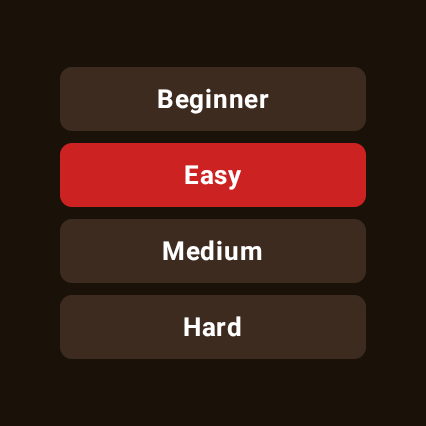
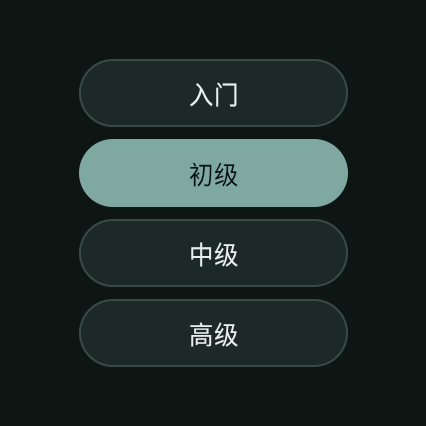
Give every button one look, in celadon
Three screens had grown three button styles: 38dp tall on the difficulty
screen, 34 in the in-game menu, 30 for the help card's dismiss; mostly
dark brown but Resume was grey and Black was near-black. Now there is a
single WatchButton and the sizes, corners, border and type live in one
place.

Red and Black no longer wear red and black. They were the only buttons
whose colour carried meaning, which made them read as a different kind
of control than the rest, and the colour said nothing the label wasn't
already saying.

The buttons were also full width, and the screen is round, so the ones
nearest the top and bottom had their corners cut off by the bezel -
visible on Resume at the foot of the in-game menu. They are now 76% of
the width with fully rounded ends, which keeps them inside the circle
wherever they land.

Palette is deep ink-teal with celadon for the selected item, picked to
sit with the wooden board rather than against it. Store screenshots
retaken against the new look.

Claude-Session: https://claude.ai/code/session_01Q1RLruG5yjBkp6saSZZABh

diff --git a/app/src/main/java/com/yingwang/watchchess/ui/GameScreen.kt b/app/src/main/java/com/yingwang/watchchess/ui/GameScreen.kt
@@ -12,6 +12,7 @@ import android.os.VibratorManager
 import androidx.activity.compose.BackHandler
 import androidx.compose.foundation.Canvas
 import androidx.compose.foundation.background
+import androidx.compose.foundation.border
 import androidx.compose.foundation.clickable
 import androidx.compose.foundation.focusable
 import androidx.compose.foundation.gestures.detectTapGestures
@@ -89,6 +90,25 @@ private val LegalDot = Color(0x8800CC44)
 private val OpponentMoveColor = Color(0xFF1B6BFF)
 private val OwnMoveColor = Color(0xFF17A34A)
 private val CursorRing = Color(0xFF00FF66)
+
+// 菜单一套青瓷色。殿下 2026-09-20 选的方向：底色是很深的墨青，按钮同色系里稍亮一档，
+// 描一道极细的浅线，当前选中的那一个填汝窑那种偏灰的蓝绿。
+// 红方黑方不再各配红黑两色，她说了「不用特意用红色黑色，都按钮就是同一」，所以整套
+// 界面里按钮只有两副长相：寻常的和选中的。棋盘本身不动，木色照旧。
+private val MenuBg = Color(0xFF0E1614)
+private val BtnFill = Color(0xFF1C2926)
+private val BtnEdge = Color(0x33A9CFC8)
+private val BtnText = Color(0xFFE8EFED)
+private val BtnTextOff = Color(0xFF5B6B68)
+private val Celadon = Color(0xFF7FA8A0)
+private val CeladonText = Color(0xFF0B1211)
+private val MenuHeading = Color(0xFF9CC3BB)
+
+// 按钮占屏宽的比例。表是圆的，越往上下两端可用的宽度越窄，通栏的按钮排到最下面
+// 左右两角就被圆边切掉，殿下 2026-09-20 看见的正是这个。收到这个比例再配上药丸形的
+// 圆角，最下面那一个也进得来。
+private const val BTN_WIDTH = 0.76f
+private val BTN_HEIGHT = 34.dp
 
 // 表冠：累计到这个像素量算走一格。数值越大越钝，转同样的角度走的格子越少。
 // 2026-09-20 殿下试了两轮都说偏快，先从 45 调到 68，仍嫌敏感，再调到 105。
@@ -532,11 +552,11 @@ fun GameScreen() {
 private fun MainMenu(onPick: (Int) -> Unit, selectedIdx: Int) {
     MenuScaffold {
         DIFFICULTIES.forEachIndexed { idx, diff ->
-            MenuChoice(
+            WatchButton(
                 label = stringResource(diff.nameRes),
-                highlighted = idx == selectedIdx,
-                accent = Color(0xFFCC2222),
-            ) { onPick(idx) }
+                selected = idx == selectedIdx,
+                onClick = { onPick(idx) },
+            )
         }
     }
 }
@@ -546,16 +566,8 @@ private fun MainMenu(onPick: (Int) -> Unit, selectedIdx: Int) {
 private fun SideMenu(onPick: (PieceColor) -> Unit, onBack: () -> Unit) {
     BackHandler(enabled = true) { onBack() }
     MenuScaffold {
-        MenuChoice(
-            label = stringResource(R.string.side_red),
-            highlighted = true,
-            accent = Color(0xFFCC2222),
-        ) { onPick(PieceColor.RED) }
-        MenuChoice(
-            label = stringResource(R.string.side_black),
-            highlighted = true,
-            accent = Color(0xFF2E2E2E),
-        ) { onPick(PieceColor.BLACK) }
+        WatchButton(stringResource(R.string.side_red), onClick = { onPick(PieceColor.RED) })
+        WatchButton(stringResource(R.string.side_black), onClick = { onPick(PieceColor.BLACK) })
     }
 }
 
@@ -568,11 +580,12 @@ private fun MenuScaffold(content: @Composable ColumnScope.() -> Unit) {
     LaunchedEffect(Unit) { focus.requestFocus() }
 
     Box(
-        Modifier.fillMaxSize().background(Color(0xFF1A1208)),
+        Modifier.fillMaxSize().background(MenuBg),
         contentAlignment = Alignment.Center,
     ) {
         Column(
             horizontalAlignment = Alignment.CenterHorizontally,
+            verticalArrangement = Arrangement.spacedBy(6.dp),
             modifier = Modifier
                 .onRotaryScrollEvent {
                     scope.launch { scrollState.scrollBy(it.verticalScrollPixels) }
@@ -581,27 +594,52 @@ private fun MenuScaffold(content: @Composable ColumnScope.() -> Unit) {
                 .focusRequester(focus)
                 .focusable()
                 .verticalScroll(scrollState)
-                .padding(horizontal = 30.dp, vertical = 14.dp),
+                .padding(horizontal = 18.dp, vertical = 14.dp),
             content = content,
         )
     }
 }
 
+/**
+ * 全应用唯一的按钮。
+ *
+ * 之前三处各写各的：难度那一屏高 38，对局菜单里高 34，帮助里的「知道了」高 30；颜色上
+ * 多数是深褐，「继续」却是灰的，执黑那一项又近乎纯黑。殿下 2026-09-20 说「所有按钮风格
+ * 好像不是特别的统一」，指的就是这个。现在只留这一个函数，尺寸圆角描边字号都在这里，
+ * 想改一处就改这里，不会再各走各的。
+ *
+ * selected 为真时填青瓷色，用来标当前选中的那一项，别的语义一概不用这个颜色。
+ */
 @Composable
-private fun MenuChoice(
+private fun WatchButton(
     label: String,
-    highlighted: Boolean,
-    accent: Color,
     onClick: () -> Unit,
+    enabled: Boolean = true,
+    selected: Boolean = false,
 ) {
     Button(
         onClick = onClick,
-        modifier = Modifier.fillMaxWidth().height(38.dp).padding(vertical = 3.dp),
+        enabled = enabled,
+        modifier = Modifier
+            .fillMaxWidth(BTN_WIDTH)
+            .height(BTN_HEIGHT)
+            .border(1.dp, if (selected) Color.Transparent else BtnEdge, RoundedCornerShape(50)),
         colors = ButtonDefaults.buttonColors(
-            backgroundColor = if (highlighted) accent else Color(0xFF3D2B1F),
+            backgroundColor = if (selected) Celadon else BtnFill,
+            disabledBackgroundColor = BtnFill,
         ),
-        shape = RoundedCornerShape(6.dp),
-    ) { Text(label, color = Color.White, fontSize = 14.sp) }
+        shape = RoundedCornerShape(50),
+    ) {
+        Text(
+            label,
+            color = when {
+                !enabled -> BtnTextOff
+                selected -> CeladonText
+                else -> BtnText
+            },
+            fontSize = 13.sp,
+        )
+    }
 }
 
 // ── In-Game Menu Overlay ───────────────────────────────────────────────────
@@ -631,12 +669,12 @@ private fun InGameMenu(
     LaunchedEffect(Unit) { menuFocus.requestFocus() }
 
     Box(
-        Modifier.fillMaxSize().background(Color(0xCC000000)).clickable { onDismiss() },
+        Modifier.fillMaxSize().background(Color(0xF0000000)).clickable { onDismiss() },
         contentAlignment = Alignment.Center,
     ) {
         Column(
             horizontalAlignment = Alignment.CenterHorizontally,
-            verticalArrangement = Arrangement.spacedBy(5.dp),
+            verticalArrangement = Arrangement.spacedBy(6.dp),
             modifier = Modifier
                 .onRotaryScrollEvent {
                     scope.launch { scrollState.scrollBy(it.verticalScrollPixels) }
@@ -645,25 +683,19 @@ private fun InGameMenu(
                 .focusRequester(menuFocus)
                 .focusable()
                 .verticalScroll(scrollState)
-                .padding(horizontal = 40.dp, vertical = 16.dp),
+                .padding(horizontal = 18.dp, vertical = 16.dp),
         ) {
             val min = elapsedSec / 60; val sec = elapsedSec % 60
-            Text(diffName, color = Color(0xFFD4A960), fontSize = 13.sp)
+            Text(diffName, color = MenuHeading, fontSize = 13.sp)
             Text(stringResource(R.string.clock_moves, min, sec, moveCount + 1), color = Color(0xAAFFFFFF), fontSize = 11.sp)
-            Spacer(Modifier.height(4.dp))
+            Spacer(Modifier.height(2.dp))
 
-            MenuBtn(stringResource(R.string.menu_undo), canUndo, onUndo)
-            MenuBtn(stringResource(R.string.menu_music, stringResource(if (bgmOn) R.string.state_on else R.string.state_off)), true, onToggleBgm)
-            MenuBtn(stringResource(R.string.menu_sound, stringResource(if (sfxOn) R.string.state_on else R.string.state_off)), true, onToggleSfx)
-            MenuBtn(stringResource(R.string.menu_new_game), true, onNewGame)
-            MenuBtn(stringResource(R.string.menu_help), true, onHelp)
-
-            Button(
-                onClick = onDismiss,
-                modifier = Modifier.fillMaxWidth().height(34.dp),
-                colors = ButtonDefaults.buttonColors(backgroundColor = Color(0xFF555555)),
-                shape = RoundedCornerShape(6.dp),
-            ) { Text(stringResource(R.string.menu_resume), color = Color.White, fontSize = 13.sp) }
+            WatchButton(stringResource(R.string.menu_undo), onUndo, enabled = canUndo)
+            WatchButton(stringResource(R.string.menu_music, stringResource(if (bgmOn) R.string.state_on else R.string.state_off)), onToggleBgm)
+            WatchButton(stringResource(R.string.menu_sound, stringResource(if (sfxOn) R.string.state_on else R.string.state_off)), onToggleSfx)
+            WatchButton(stringResource(R.string.menu_new_game), onNewGame)
+            WatchButton(stringResource(R.string.menu_help), onHelp)
+            WatchButton(stringResource(R.string.menu_resume), onDismiss)
         }
     }
 }
@@ -700,9 +732,9 @@ private fun HelpOverlay(onDismiss: () -> Unit) {
                 .focusRequester(focus)
                 .focusable()
                 .verticalScroll(scrollState)
-                .padding(horizontal = 22.dp, vertical = 8.dp),
+                .padding(horizontal = 18.dp, vertical = 8.dp),
         ) {
-            Text(stringResource(R.string.help_title), color = Color(0xFFD4A960), fontSize = 13.sp)
+            Text(stringResource(R.string.help_title), color = MenuHeading, fontSize = 13.sp)
             Spacer(Modifier.height(1.dp))
             HelpLine(stringResource(R.string.help_step1))
             HelpLine(stringResource(R.string.help_step2))
@@ -712,12 +744,7 @@ private fun HelpOverlay(onDismiss: () -> Unit) {
             HelpLine(stringResource(R.string.help_cancel), Color(0x99FFFFFF), 11.sp)
             HelpLine(stringResource(R.string.help_menu), Color(0x99FFFFFF), 11.sp)
             Spacer(Modifier.height(3.dp))
-            Button(
-                onClick = onDismiss,
-                modifier = Modifier.fillMaxWidth().height(30.dp),
-                colors = ButtonDefaults.buttonColors(backgroundColor = Color(0xFF3D2B1F)),
-                shape = RoundedCornerShape(6.dp),
-            ) { Text(stringResource(R.string.help_got_it), color = Color.White, fontSize = 13.sp) }
+            WatchButton(stringResource(R.string.help_got_it), onDismiss)
         }
     }
 }
@@ -731,17 +758,6 @@ private fun HelpLine(text: String, color: Color = Color(0xEEFFFFFF), fontSize: T
         textAlign = TextAlign.Center,
         modifier = Modifier.fillMaxWidth(),
     )
-}
-
-@Composable
-private fun MenuBtn(label: String, enabled: Boolean, onClick: () -> Unit) {
-    Button(
-        onClick = onClick,
-        enabled = enabled,
-        modifier = Modifier.fillMaxWidth().height(34.dp),
-        colors = ButtonDefaults.buttonColors(backgroundColor = Color(0xFF3D2B1F)),
-        shape = RoundedCornerShape(6.dp),
-    ) { Text(label, color = if (enabled) Color.White else Color(0xFF666666), fontSize = 13.sp) }
 }
 
 // ── Board Canvas ───────────────────────────────────────────────────────────

diff --git a/scripts/play-set-track.py b/scripts/play-set-track.py
@@ -1,0 +1,40 @@
+#!/usr/bin/env python3
+"""把一个已经上传过的 versionCode 放到另一条轨道上，不重新上传包。
+
+Play 的 Wear OS 表单要求「先把包发到一条轨道」之后才肯让人勾选它的审核政策，
+而同一个 versionCode 不能再上传第二遍，所以需要这么一个只改轨道不传文件的动作。
+play_publish.py 缺这一路：它没有 --aab 时会去读轨道上现有的发布来改文案，
+轨道是空的就直接报错。
+"""
+import argparse, os, sys, urllib.parse
+sys.path.insert(0, os.path.expanduser("~/claude/telewise/tools"))
+import play_publish as pp
+import json
+
+ap = argparse.ArgumentParser()
+ap.add_argument("--package", required=True)
+ap.add_argument("--track", required=True)
+ap.add_argument("--version-code", required=True)
+ap.add_argument("--status", default="draft", choices=["draft", "completed"])
+ap.add_argument("--name")
+ap.add_argument("--notes", help="fastlane metadata 目录")
+a = ap.parse_args()
+
+key = json.load(open(pp.KEY_PATH))
+token = pp.access_token(key)
+edit = pp.call(token, "POST", "%s/%s/edits" % (pp.API, a.package), payload={})
+eid = edit["id"]
+print("edit", eid)
+
+release = {"versionCodes": [a.version_code], "status": a.status,
+           "name": a.name or a.version_code}
+notes = pp.release_notes(a.notes, a.version_code) if a.notes else []
+if notes:
+    release["releaseNotes"] = notes
+    print("notes in", ", ".join(n["language"] for n in notes))
+
+pp.call(token, "PUT", "%s/%s/edits/%s/tracks/%s" % (pp.API, a.package, eid, urllib.parse.quote(a.track)),
+        payload={"track": a.track, "releases": [release]})
+print("track", a.track, "->", a.version_code, a.status)
+pp.call(token, "POST", "%s/%s/edits/%s:commit" % (pp.API, a.package, eid))
+print("committed")
